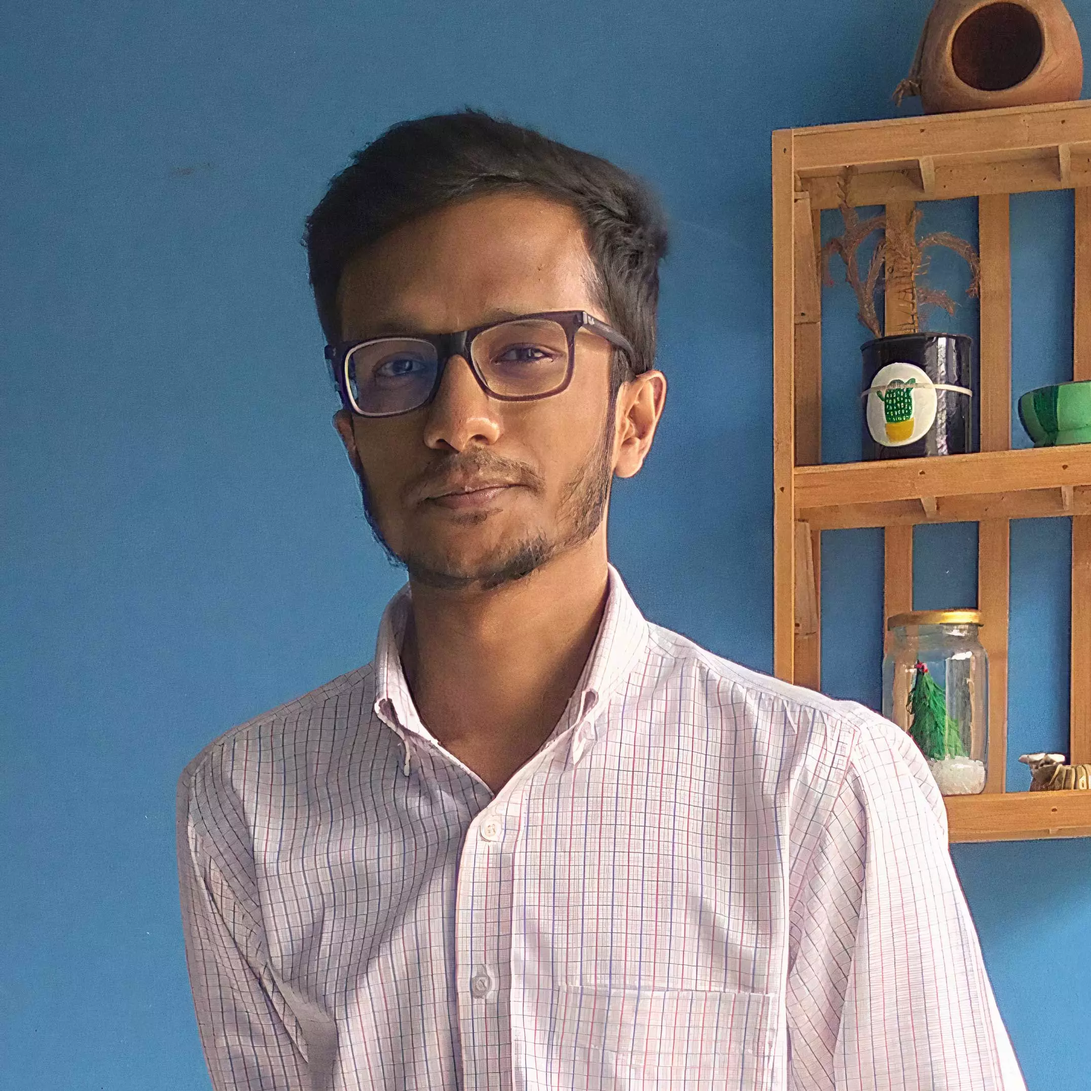
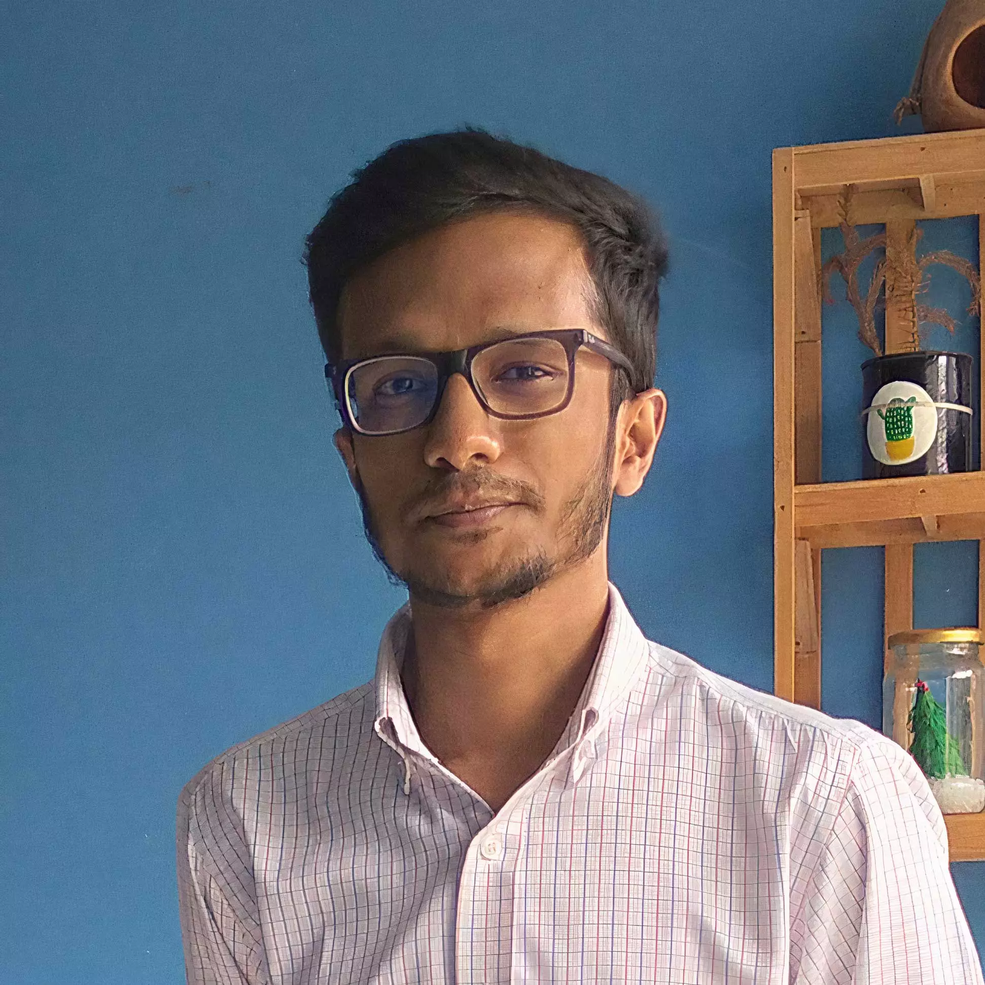
updated images

diff --git a/src/components/aboutUs/Profiles.js b/src/components/aboutUs/Profiles.js
@@ -21,7 +21,7 @@ export const Profiles = [
                 founder: 'Co-Founder',
                 designation: 'Chief Technology Officer',
                 linkedin: 'https://www.linkedin.com/in/sadman-sakib-676001a3/',
-                imgSrc: require('../../assets/team-profile-photos/sakib_2.webp')
+                imgSrc: require('../../assets/team-profile-photos/sakib.webp')
             },
         ]
     },
@@ -43,7 +43,7 @@ export const Profiles = [
                 name: 'Md. Apon Chowdhury',
                 designation: 'Jr Product Manager',
                 linkedin: 'https://www.linkedin.com/in/md-apon-chowdhury-12b964b2/',
-                imgSrc: require('../../assets/team-profile-photos/apon_2.webp')
+                imgSrc: require('../../assets/team-profile-photos/apon.webp')
             },
         ]
     },
